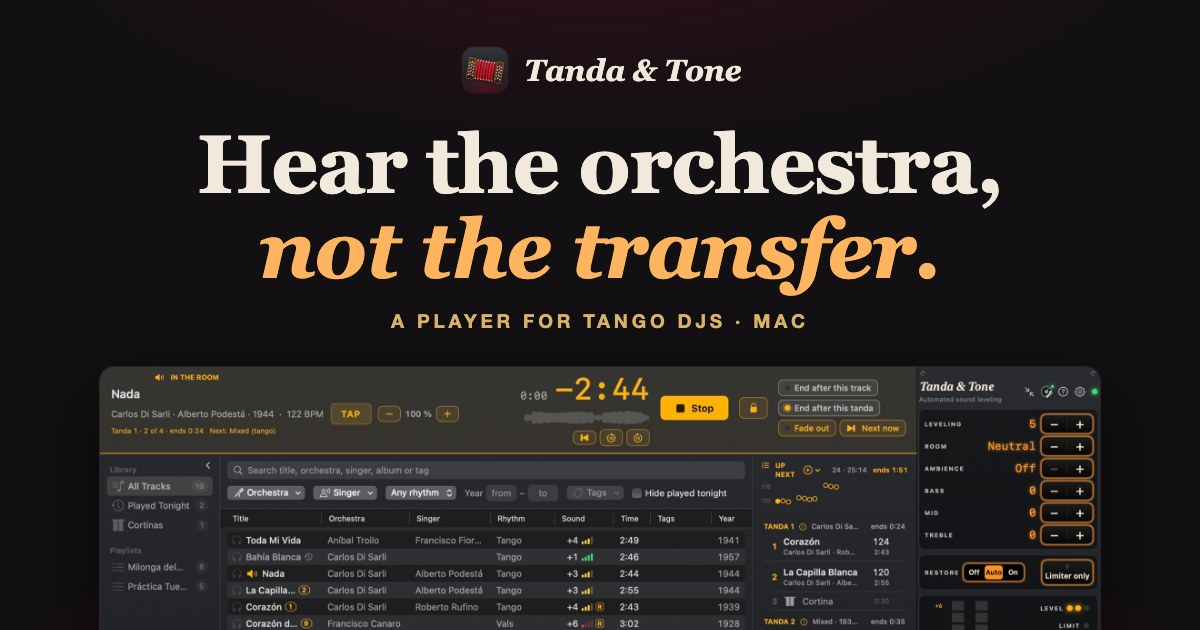
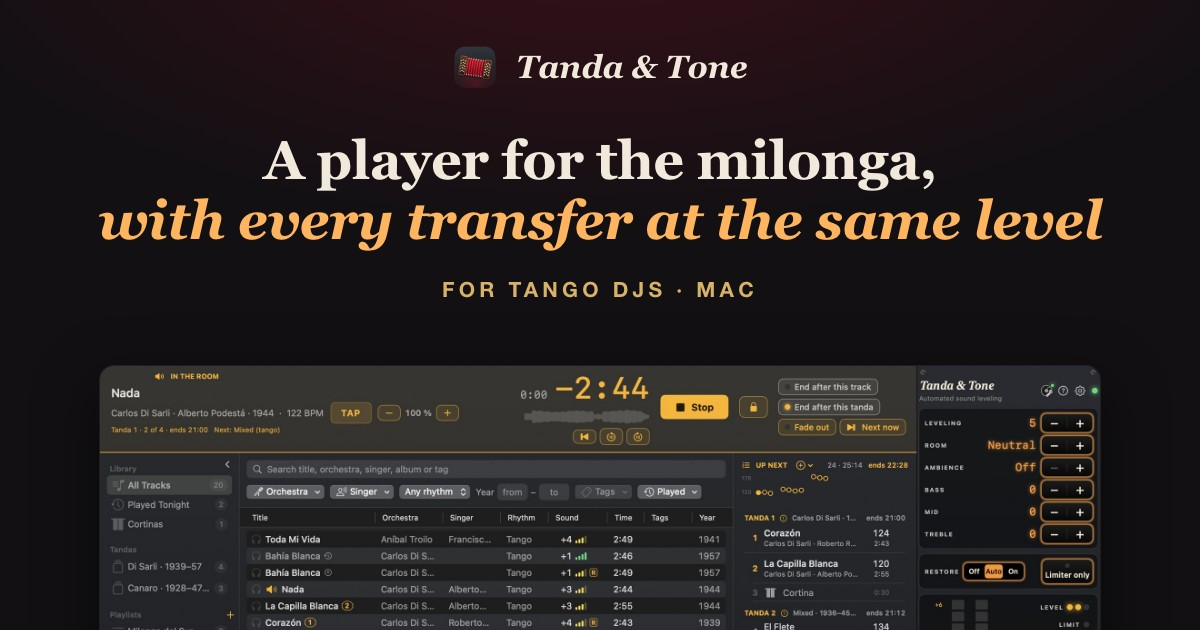
Tanda & Tone: the public pages (2026-11-16)

diff --git a/index.html b/index.html
@@ -5,9 +5,9 @@
 <meta name="viewport" content="width=device-width, initial-scale=1">
 <meta name="color-scheme" content="dark">
 <meta name="theme-color" content="#121013">
-<title>Tanda &amp; Tone – Hear the orchestra, not the transfer</title>
+<title>Tanda &amp; Tone – A player for the milonga, with every transfer at the same level</title>
 <meta name="description" content="Tanda & Tone is a Mac player for tango DJs: tandas and cortinas, pre-listen, a screen for the dancers, your library read where it is, and the same level from track to track with the dynamics left to the orchestra.">
-<meta property="og:title" content="Tanda & Tone: hear the orchestra, not the transfer">
+<meta property="og:title" content="Tanda & Tone: a player for the milonga, with every transfer at the same level">
 <meta property="og:description" content="A Mac player for tango DJs: tandas, cortinas and your library as you keep it, with the same level from one transfer to the next.">
 <meta property="og:image" content="https://cmbjorn.github.io/tanda-and-tone/images/og-tango.jpg">
 <meta name="twitter:card" content="summary_large_image">
@@ -76,7 +76,7 @@
     color: var(--gold); font-size: 12px; font-weight: 700; letter-spacing: .2em; text-transform: uppercase;
   }
   .kicker::before, .kicker::after { content: ""; width: 44px; height: 1px; background: currentColor; opacity: .55; }
-  h1 { font: 600 clamp(38px, 6.9vw, 86px)/1.04 var(--serif); letter-spacing: -.012em; margin: 0 auto 26px; }
+  h1 { font: 600 clamp(30px, 5vw, 62px)/1.08 var(--serif); letter-spacing: -.012em; margin: 0 auto 26px; }
   h1 em, h2 em { font-style: italic; color: var(--amber-soft); }
   .lede { font-size: clamp(18px, 2.1vw, 21.5px); line-height: 1.52; max-width: 34em; margin: 0 auto 32px; color: color-mix(in srgb, var(--text) 90%, transparent); }
   .buttons { display: flex; flex-wrap: wrap; gap: 12px; justify-content: center; }
@@ -260,9 +260,9 @@
 <div class="hero">
   <div class="wrap">
     <p class="kicker">For tango DJs · Mac</p>
-    <h1>Hear the orchestra,<br><em>not the transfer.</em></h1>
-    <p class="lede">A player for the milonga: tandas and cortinas, pre-listen, a screen for the dancers, and your
-      library as you keep it. Tracks play at the same level, whichever transfer they come from.</p>
+    <h1>A player for the milonga,<br><em>with every transfer at the same level</em></h1>
+    <p class="lede">Tandas and cortinas, pre-listen, a screen for the dancers, and your library as you keep
+      it.</p>
     <div class="buttons">
       <a class="btn primary" href="mailto:christianmb@gmail.com?subject=Tanda%20%26%20Tone%3A%20the%20beta">Tell me when the beta opens</a>
       <a class="btn ghost" href="#player">See the player</a>
